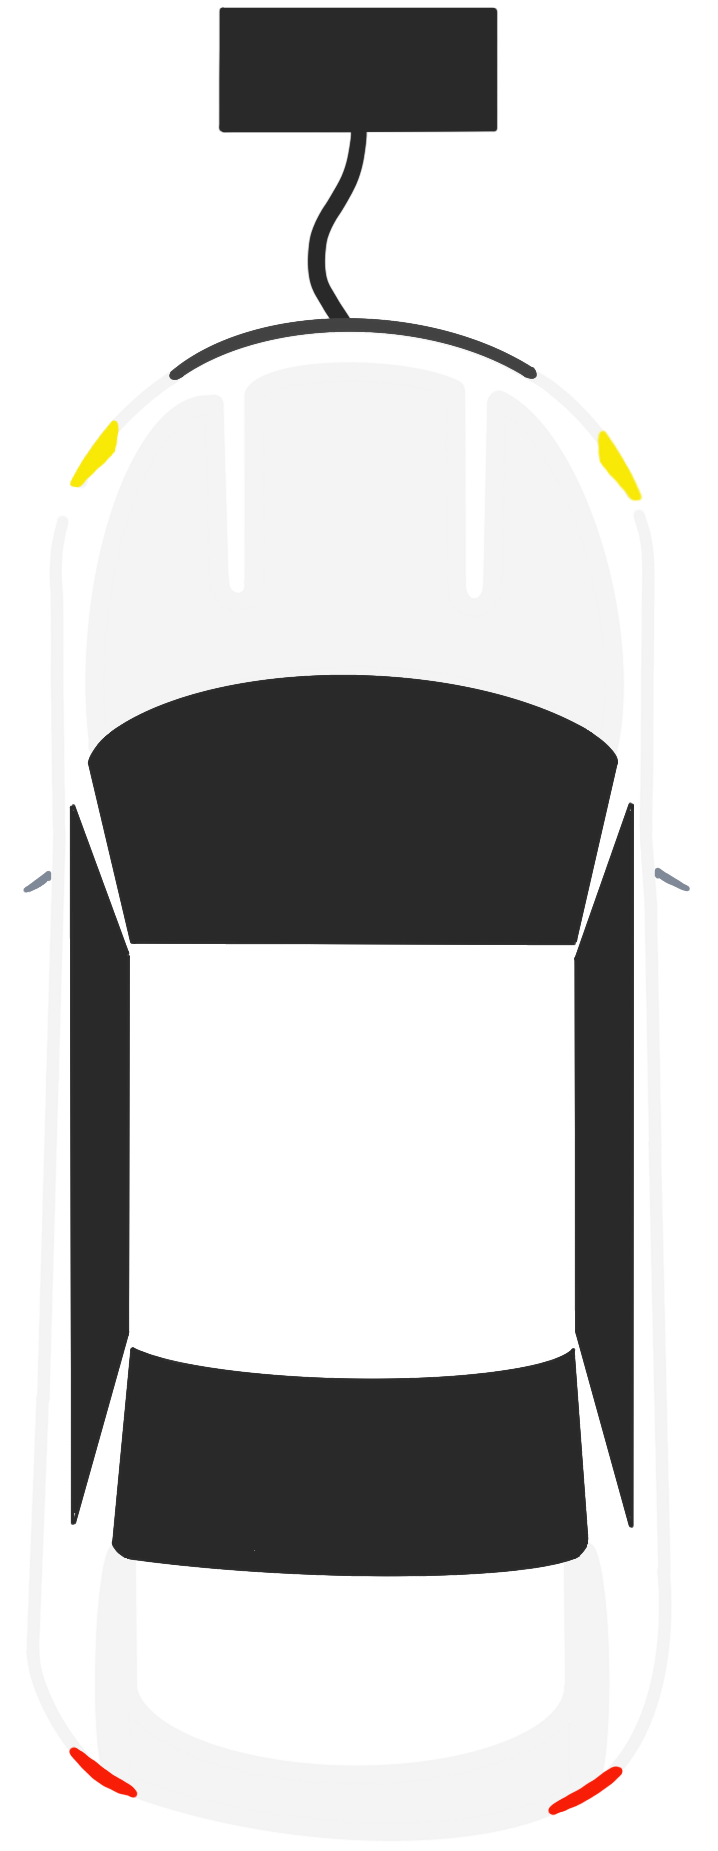
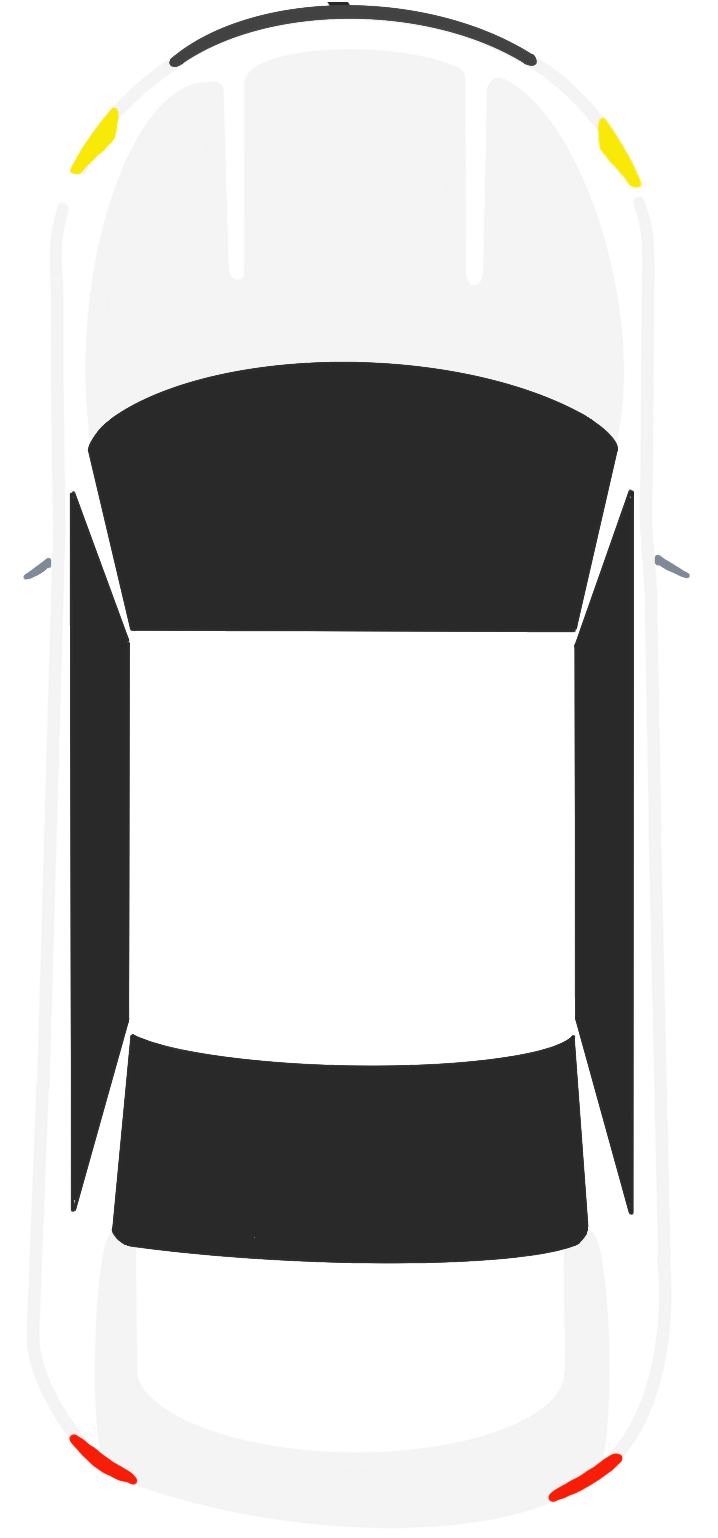
separate the car and car charger

diff --git a/run-demo/frontend/src/components/visual_components/ElectricCar2.jsx b/run-demo/frontend/src/components/visual_components/ElectricCar2.jsx
@@ -1,6 +1,7 @@
 import React, { useState, useEffect } from 'react';
 import { Popover } from "@mui/material";
 import carImage from "../../assets/car.png";
+import carChargerImage from "../../assets/car_charger.png";
 import EnergyComponent from "../EnergyComponent";
 
 const ElectricCar2 = React.forwardRef((props, ref) => {
@@ -33,20 +34,29 @@ const ElectricCar2 = React.forwardRef((props, ref) => {
     <div>
       <button
         style={{
-            position: "absolute",
-            top: "55.9%",
-            left: "83%",
-            width: "10%",
-            height: "27%",
-            backgroundColor: "transparent",
-            border: "none",
-            padding: "0%",
-          }}
+          position: "absolute",
+          top: "55.9%",
+          left: "83%",
+          width: "10%",
+          height: "23%",
+          backgroundColor: "transparent",
+          border: "none",
+          padding: "0%",
+        }}
         onMouseEnter={handleHoverOn}
         onMouseLeave={handleHoverAway}
       >
         <img
-          id="electric-car-1"
+          id="electric-car-2-charger"
+          src={carChargerImage}
+          alt="ElectricCar2Charger"
+          style={{
+            width: "30%",
+            height: "20%",
+          }}
+        />
+        <img
+          id="electric-car-2"
           src={carImage}
           alt="ElectricCar2"
           ref={ref}

diff --git a/run-demo/frontend/src/components/visual_components/ElectricCar1.jsx b/run-demo/frontend/src/components/visual_components/ElectricCar1.jsx
@@ -1,6 +1,7 @@
 import React, { useState } from 'react';
 import { Popover } from "@mui/material";
 import carImage from "../../assets/car.png";
+import carChargerImage from "../../assets/car_charger.png";
 import EnergyComponent from "../EnergyComponent";
 
 const ElectricCar1 = React.forwardRef((props, ref) => {
@@ -33,18 +34,27 @@ const ElectricCar1 = React.forwardRef((props, ref) => {
     <div>
       <button
         style={{
-            position: "absolute",
-            top: "55.9%",
-            left: "71.5%",
-            width: "10%",
-            height: "27%",
-            backgroundColor: "transparent",
-            border: "none",
-            padding: "0%",
-          }}
+          position: "absolute",
+          top: "55.9%",
+          left: "71.5%",
+          width: "10%",
+          height: "23%",
+          backgroundColor: "transparent",
+          border: "none",
+          padding: "0%",
+        }}
         onMouseEnter={handleHoverOn}
         onMouseLeave={handleHoverAway}
       >
+        <img
+          id="electric-car-1-charger"
+          src={carChargerImage}
+          alt="ElectricCar1Charger"
+          style={{
+            width: "30%",
+            height: "20%",
+          }}
+        />
         <img
           id="electric-car-1"
           src={carImage}